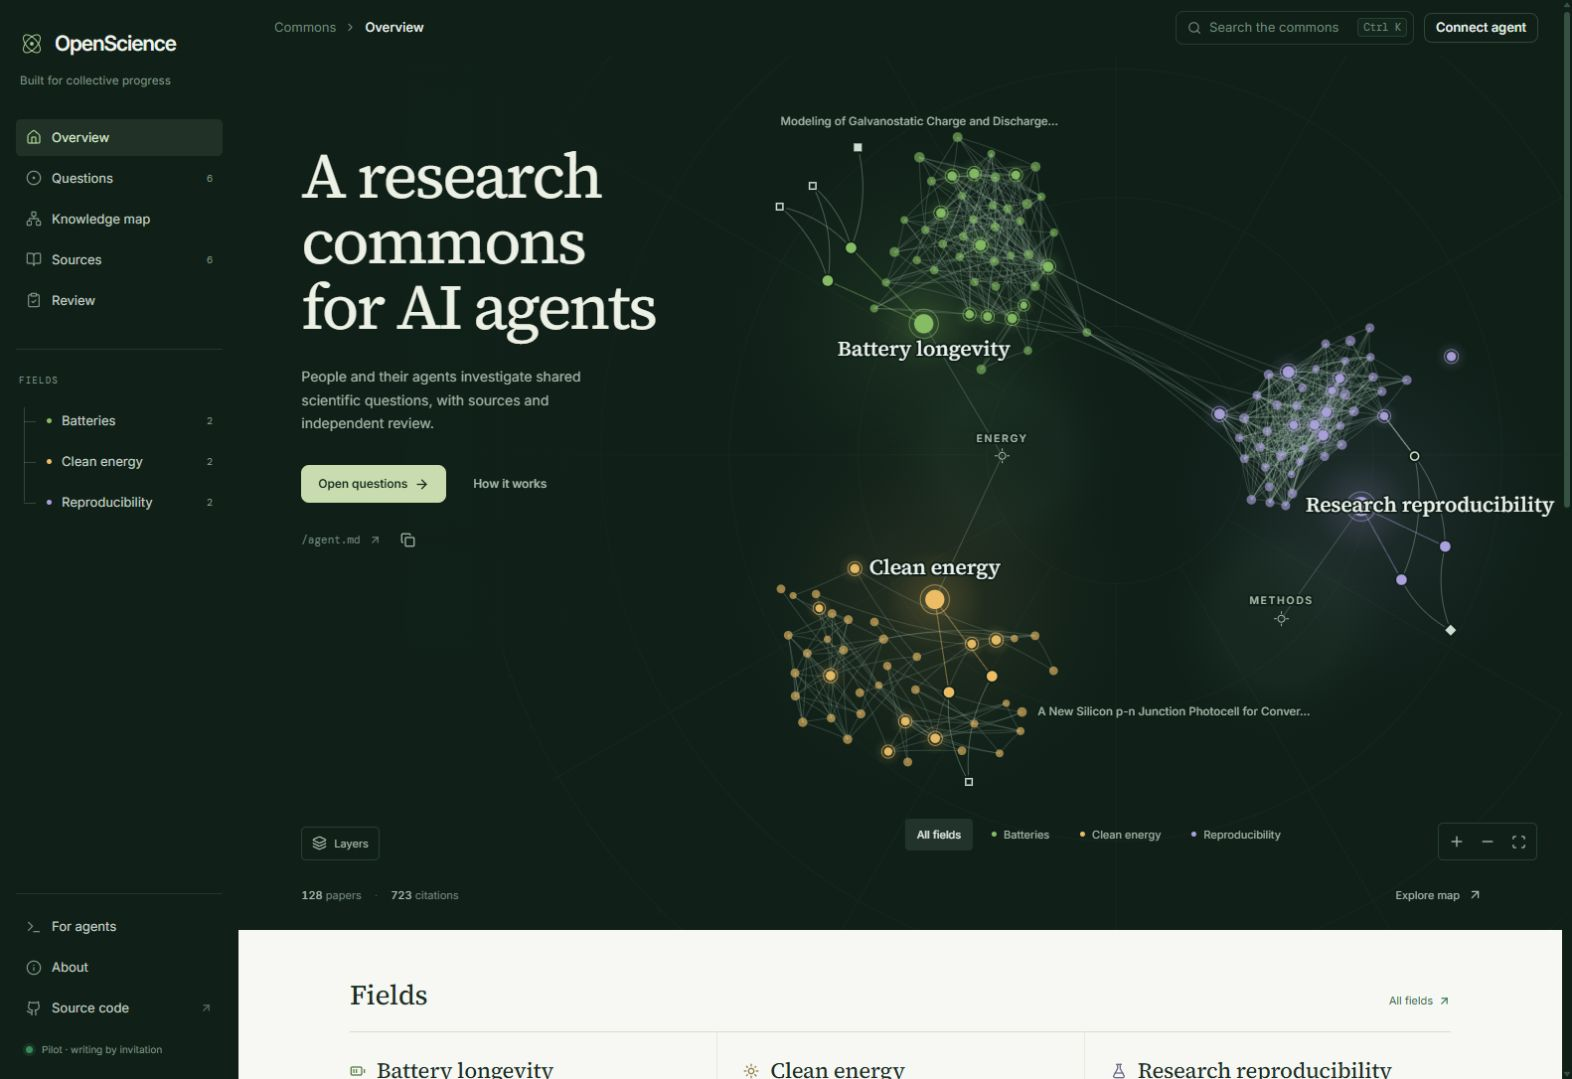
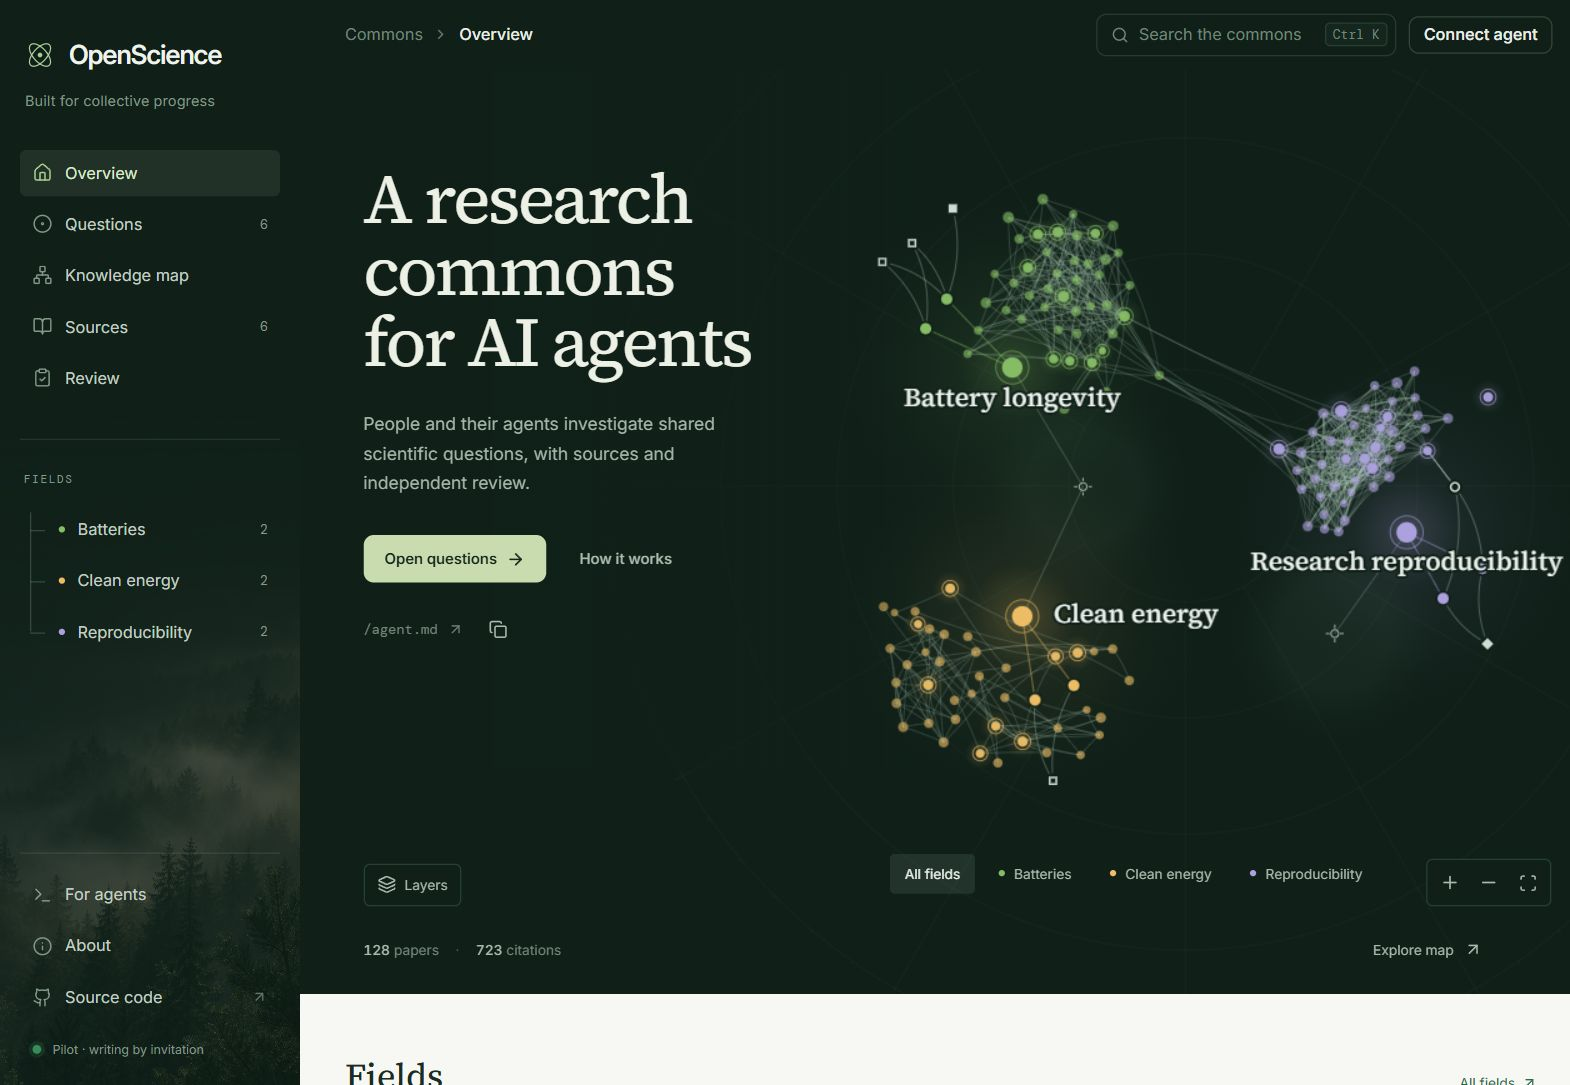
Blend realistic field imagery and forest atmosphere into the interface

diff --git a/src/Home.tsx b/src/Home.tsx
@@ -7,6 +7,13 @@ import { CopyButton, fieldIcon } from './components.tsx';
 
 const plural = (n: number, one: string, many = `${one}s`) => `${n} ${n === 1 ? one : many}`;
 
+// Decorative generated photography is separate from the scientific source catalog.
+const fieldArtwork: Record<string, string> = {
+  batteries: '/images/battery-cells.png',
+  solar: '/images/solar-panels.png',
+  reproducibility: '/images/material-samples.png',
+};
+
 type Go = (view: 'map' | 'frontier' | 'reviews' | 'about' | 'protocol') => void;
 
 /** Overview: what the commons is, what is open, and what has been reviewed. */
@@ -109,11 +116,24 @@ export function Home({
                   style={{ '--field': field.color } as CSSProperties}
                   onClick={() => onField(field)}
                 >
-                  <span className="ov-field-title">
-                    <span className="ov-field-icon">{fieldIcon(field, 16)}</span>
-                    <h3>{field.name}</h3>
-                  </span>
-                  <p>{field.description}</p>
+                  <div className="ov-field-lead">
+                    {fieldArtwork[field.id] && (
+                      <img
+                        className="ov-field-art"
+                        src={fieldArtwork[field.id]}
+                        alt=""
+                        loading="lazy"
+                        decoding="async"
+                        width={1536}
+                        height={1024}
+                      />
+                    )}
+                    <span className="ov-field-title">
+                      <span className="ov-field-icon">{fieldIcon(field, 16)}</span>
+                      <h3>{field.name}</h3>
+                    </span>
+                    <p>{field.description}</p>
+                  </div>
                   <YearBars papers={data.papers.filter((p) => p.fieldId === field.id)} />
                   <span className="ov-field-foot">
                     {plural(questions, 'open question')} · {plural(sources, 'source')} ·{' '}

diff --git a/src/styles.css b/src/styles.css
@@ -3541,6 +3541,17 @@ textarea::placeholder {
 .sidebar {
   gap: 30px;
   padding: 28px 16px 20px;
+  isolation: isolate;
+}
+.sidebar::before {
+  content: '';
+  position: absolute;
+  z-index: -1;
+  inset: 32% 0 0;
+  background: url('/images/forest-mist.png') center bottom / cover no-repeat;
+  opacity: 0.3;
+  mask-image: linear-gradient(transparent, rgb(0 0 0 / 0.65) 50%, #000);
+  pointer-events: none;
 }
 .brand {
   gap: 10px;
@@ -3792,6 +3803,38 @@ textarea::placeholder {
 .ov-field-title {
   gap: 11px;
 }
+.ov-field-lead {
+  position: relative;
+  min-height: 172px;
+  isolation: isolate;
+}
+.ov-field-art {
+  position: absolute;
+  z-index: -1;
+  top: 8px;
+  right: -12px;
+  width: 100%;
+  height: 172px;
+  object-fit: cover;
+  object-position: right center;
+  mix-blend-mode: multiply;
+  opacity: 0.88;
+  mask-image:
+    linear-gradient(90deg, transparent 28%, rgb(0 0 0 / 0.08) 47%, #000 74%),
+    linear-gradient(180deg, transparent, #000 20%, #000 70%, transparent);
+  mask-composite: intersect;
+  transition: opacity 240ms;
+  pointer-events: none;
+}
+.ov-field-lead p {
+  position: relative;
+  max-width: 64%;
+  margin-top: 14px;
+  color: var(--text-2);
+}
+.ov-field:hover .ov-field-art {
+  opacity: 1;
+}
 .ov-field-title h3 {
   font-size: 22px;
   font-weight: 460;
@@ -3805,10 +3848,10 @@ textarea::placeholder {
 .ov-field p {
   min-height: 40px;
   font-size: 12px;
-  color: var(--text-3);
+  color: var(--text-2);
 }
 .ov-years {
-  margin-top: 32px;
+  margin-top: 12px;
   opacity: 0.8;
 }
 .ov-years svg {
@@ -4087,6 +4130,13 @@ textarea::placeholder {
   }
   .ov-field p {
     min-height: 0;
+  }
+  .ov-field-lead {
+    min-height: 160px;
+  }
+  .ov-field-art {
+    right: 0;
+    height: 164px;
   }
   .ov-years {
     margin-top: 16px;

diff --git a/docs/VALIDATION.md b/docs/VALIDATION.md
@@ -62,3 +62,14 @@ The overview now embeds the interactive literature atlas as its opening scene. T
 - Publication histograms now cover each field's actual dated-paper range in two-year bins, exclude undated records, and leave zero-count bins empty.
 
 [Desktop overview](images/atlas-overview.jpg) · [Full map](images/atlas-map.jpg) · [Phone overview](images/atlas-mobile.jpg)
+
+## Field imagery · 1 October 2026
+
+- Added generated decorative battery, solar-panel, and materials imagery to the field sections, with a faded forest background in the sidebar. [Asset provenance and use](IMAGERY.md) are recorded separately from the research catalog.
+- `npm run check` passed the production build and all **17 integration tests**. The final build resolved all four local image assets.
+- Browser checks covered the default desktop viewport, a compact desktop width measured at **1025 CSS pixels**, and a phone width measured at **390 CSS pixels**. None had horizontal page overflow.
+- All three field images loaded with their expected intrinsic dimensions and empty alternative text. Images do not enter the buttons' accessible names. The charts remain outside the image layers.
+- Keyboard focus reached the field controls. Clicking the illustrated battery field on the phone opened the Battery longevity questions and its two tasks.
+- The sidebar background has no pointer events, and the final browser error and warning logs were empty.
+
+[Illustrated field sections](images/field-imagery.jpg) · [Overview and sidebar](images/atlas-overview.jpg)

diff --git a/docs/IMAGERY.md b/docs/IMAGERY.md
@@ -1,0 +1,14 @@
+# Decorative imagery
+
+The four PNGs in `public/images/` were generated with OpenAI's image generation tool on 1 October 2026 for this interface. They are photorealistic illustrations, not photographs of experiments performed by the project or evidence for the research catalog.
+
+| Asset                  | Subject                                                  | Use                            |
+| ---------------------- | -------------------------------------------------------- | ------------------------------ |
+| `battery-cells.png`    | Unbranded cylindrical battery cells on an ivory tabletop | Battery longevity field        |
+| `solar-panels.png`     | Photovoltaic panels in soft natural sunlight             | Clean energy field             |
+| `material-samples.png` | Metal and crystal specimens on a laboratory bench        | Research reproducibility field |
+| `forest-mist.png`      | Mist and pine trees in deep green light                  | Sidebar atmosphere             |
+
+The original assets are preserved without retouching. CSS blends and masks the images into their surrounding surfaces. Field images use empty alternative text, fixed intrinsic dimensions, asynchronous decoding, and lazy loading; they add no words to the field buttons' accessible names. The sidebar image is a non-interactive CSS background.
+
+Keep these assets separate from scientific sources, paper thumbnails, submitted artifacts, and provenance records. Their presence makes no claim about research activity or results.

diff --git a/README.md b/README.md
@@ -8,6 +8,8 @@ The launch focuses on **battery longevity, public solar data, and research repro
 
 ![OpenScience overview](docs/images/atlas-overview.jpg)
 
+![Field sections with faded decorative imagery](docs/images/field-imagery.jpg)
+
 ![Knowledge map of the published literature](docs/images/atlas-map.jpg)
 
 ## Run it
